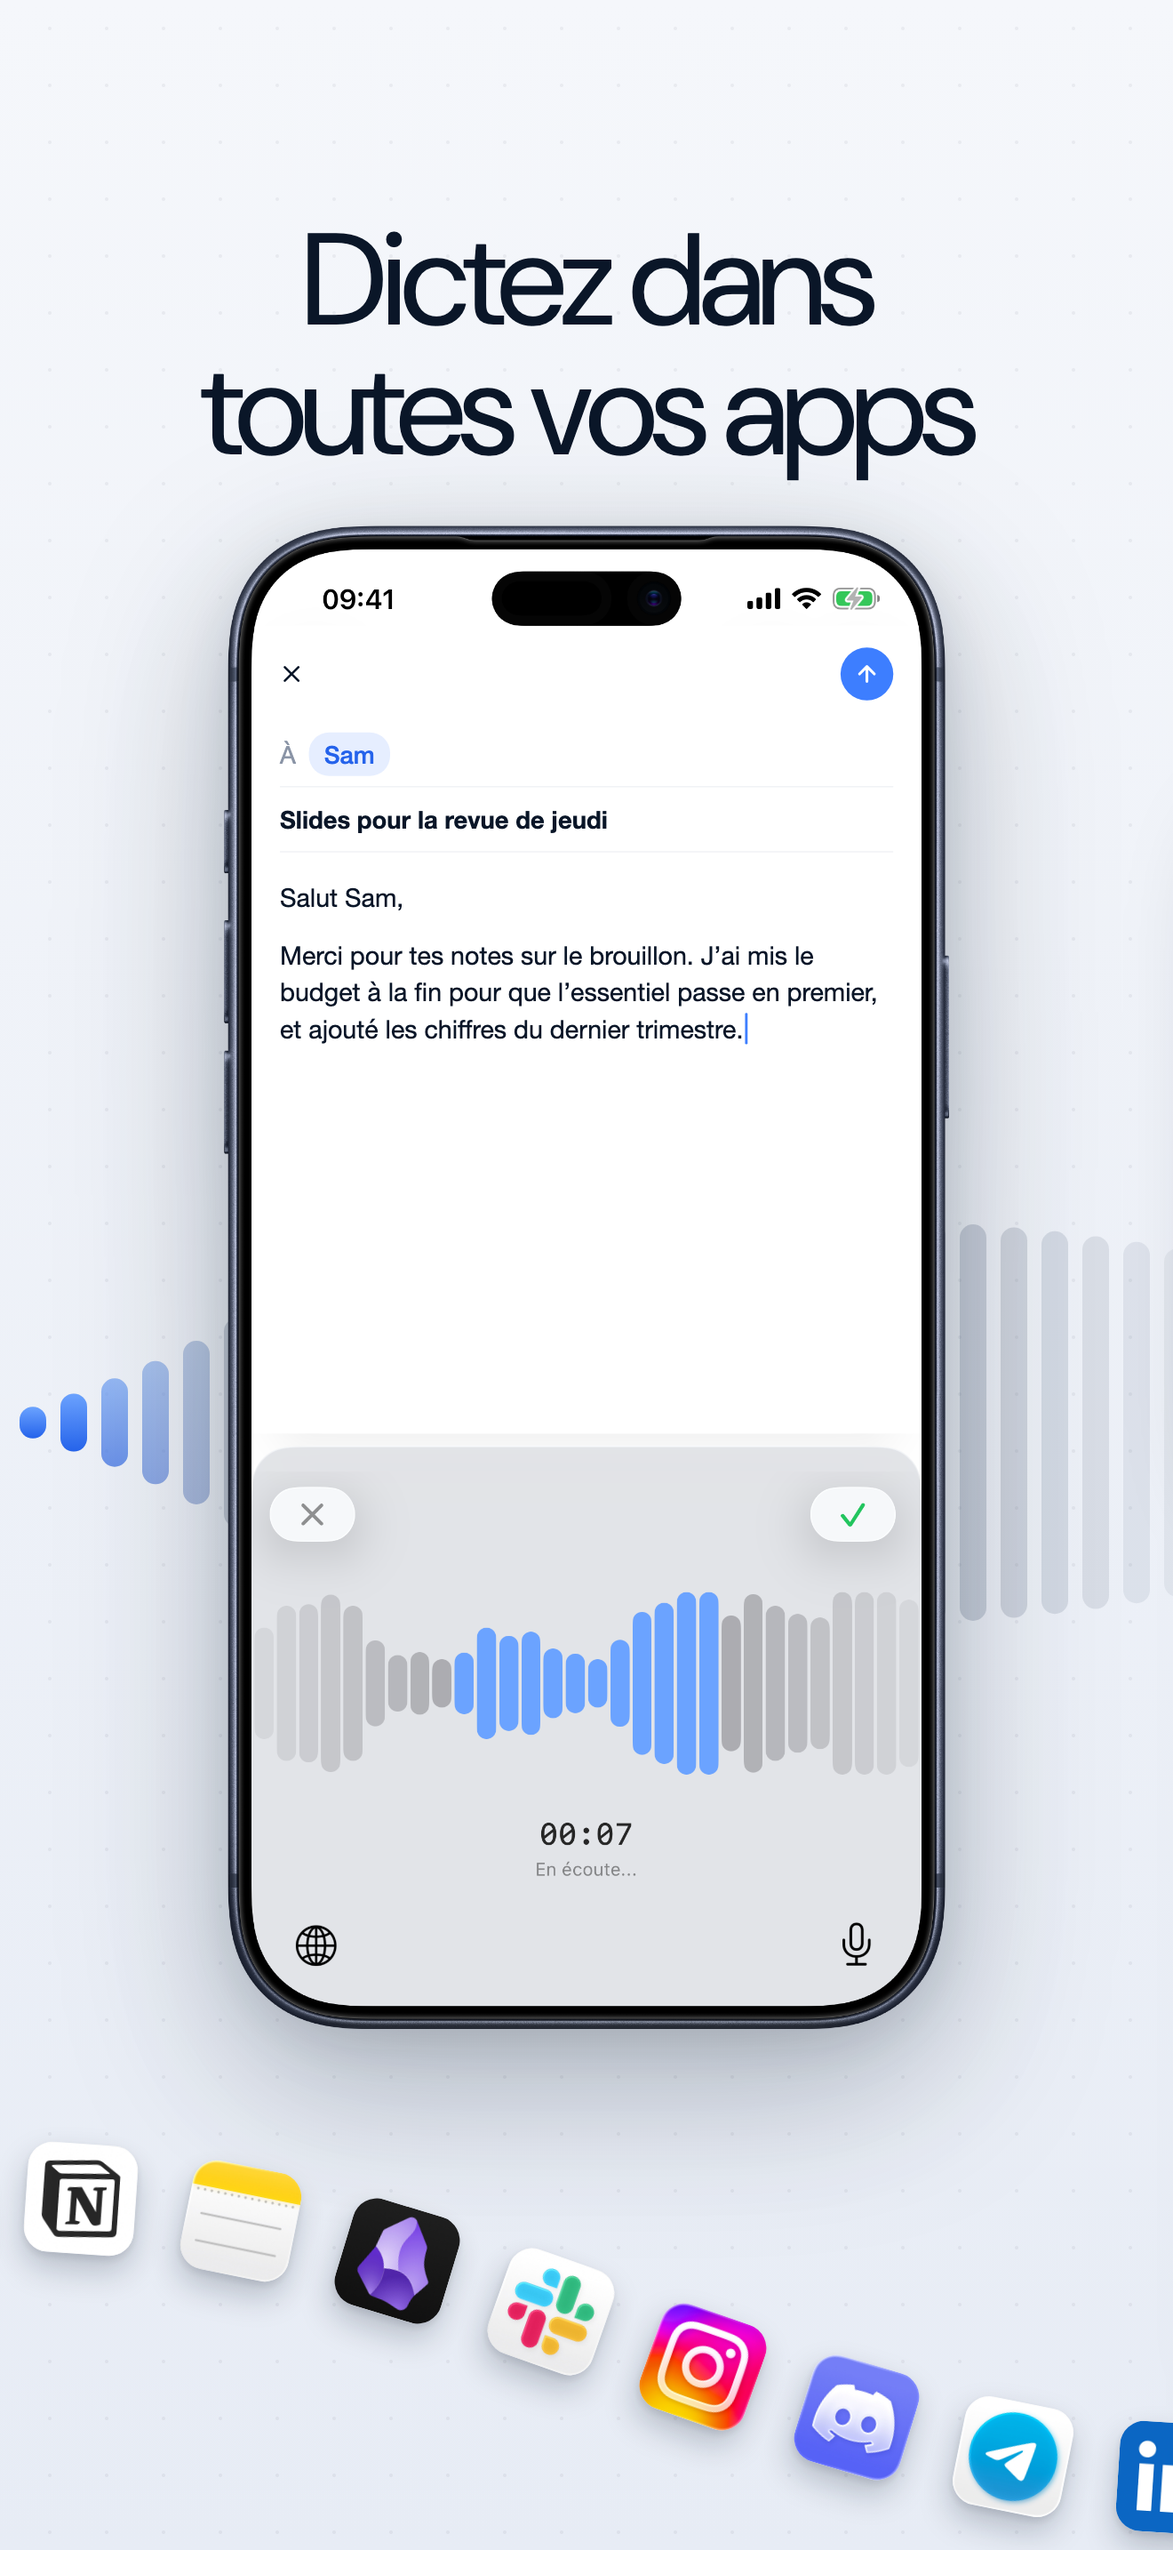
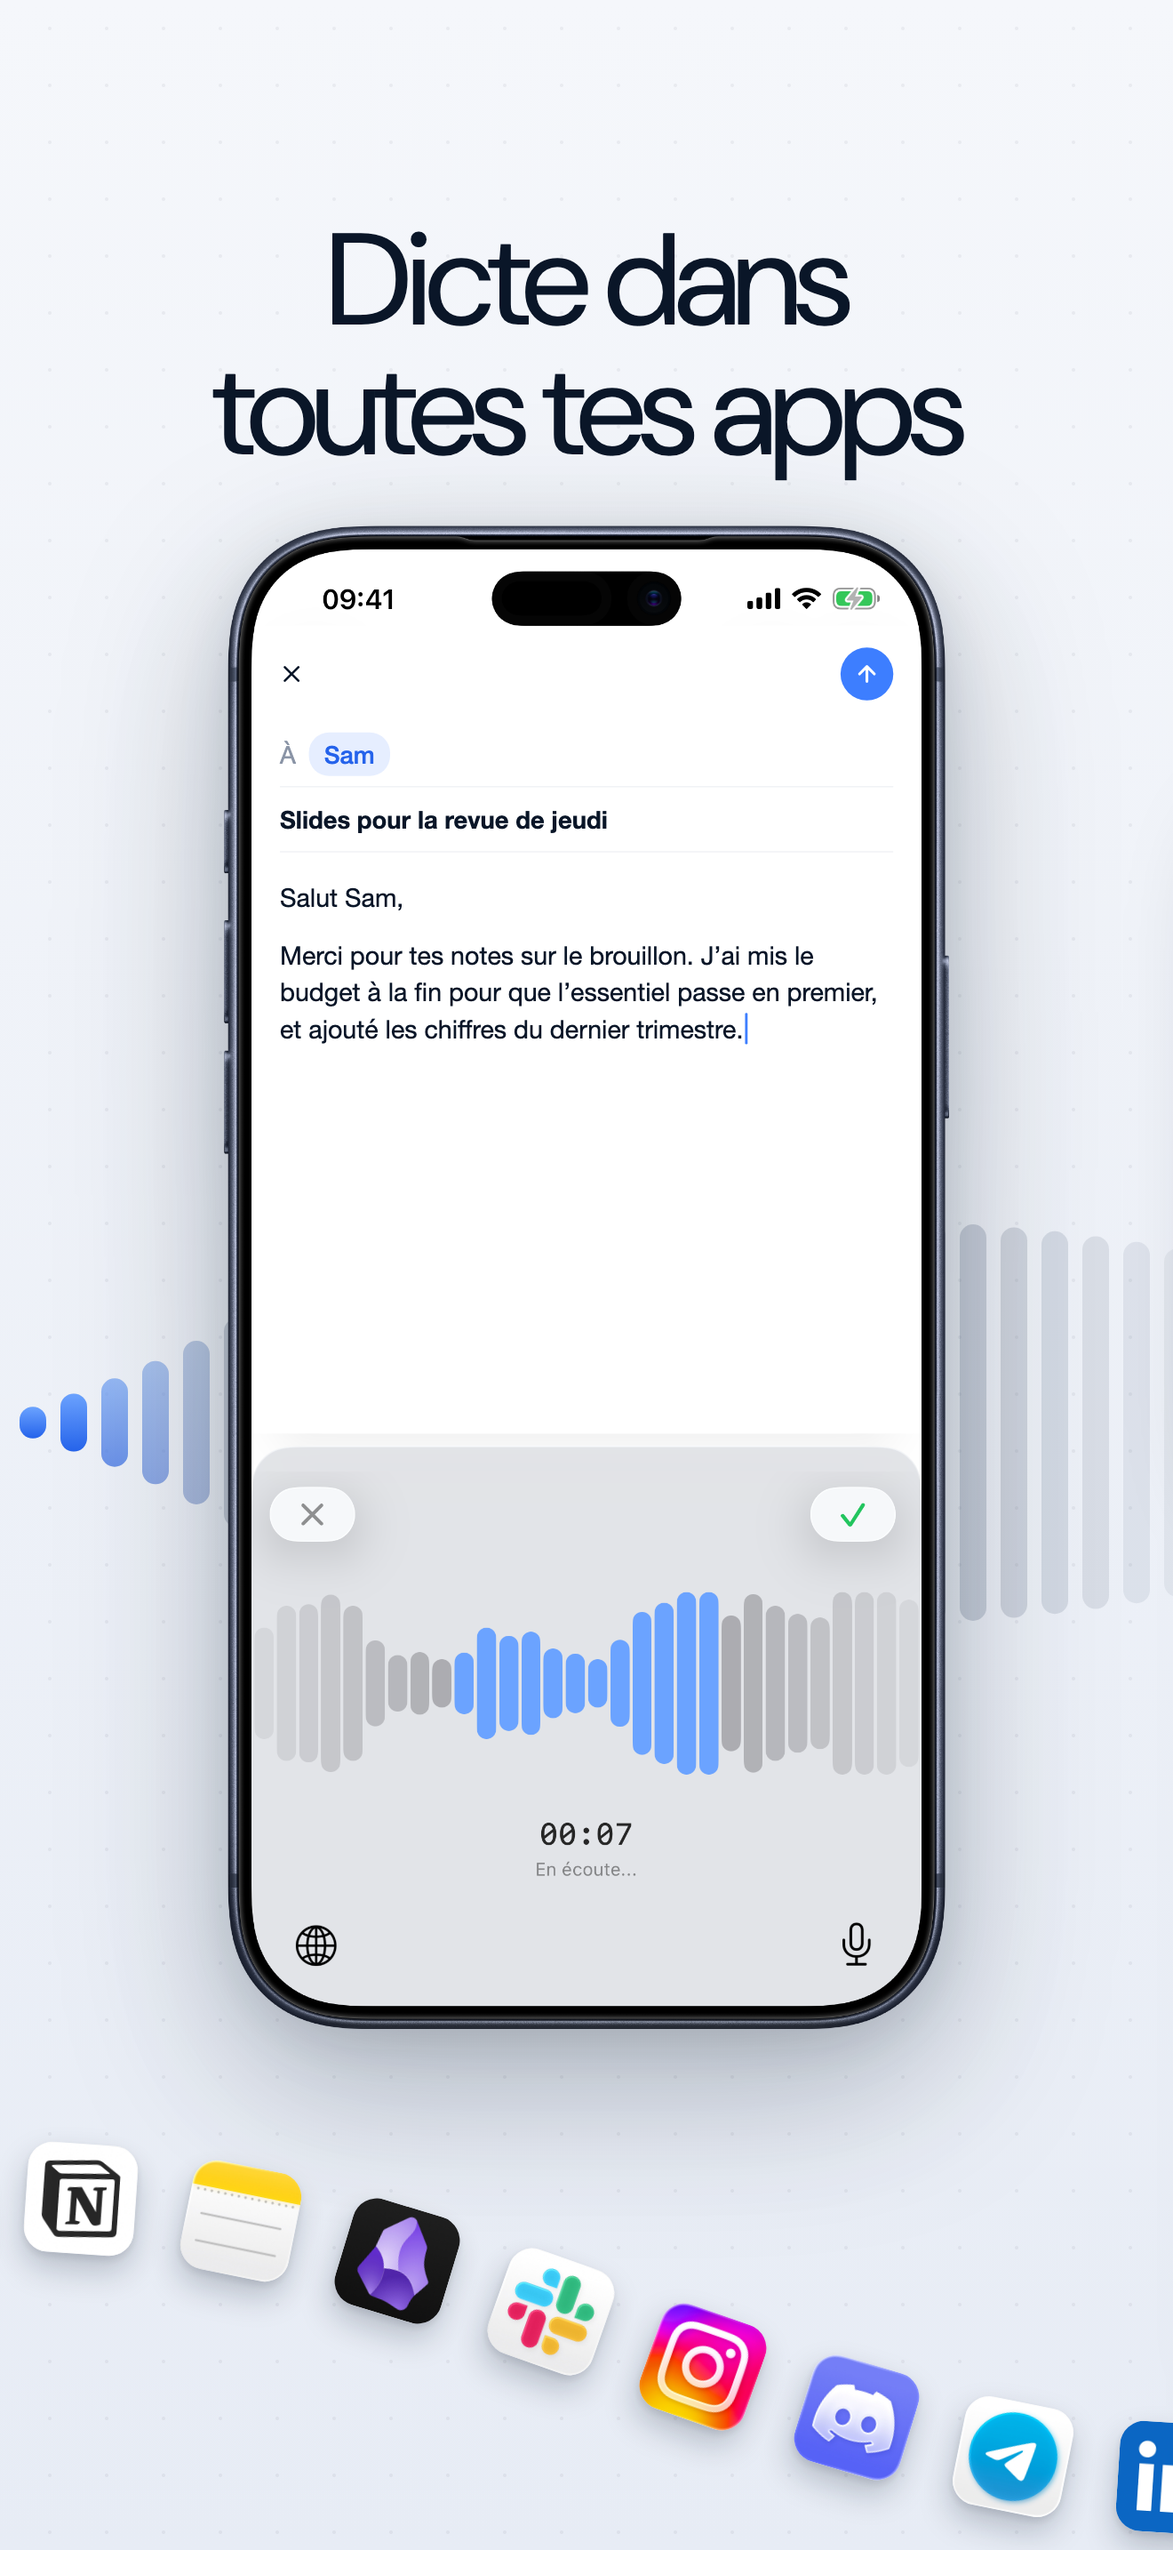
Switch the fr-FR copy to tu and keep the English name (refs #643)
Pierre's decisions of 2026-10-06: Dictus says tu to French users (the app
follows in #662), and the name stays Dictus: AI Voice Keyboard. Headlines,
small lines, subtitle, promotional text and description move to tu; the
keywords now carry clavier, vocal and ia, which the English name no longer
indexes, at 100/100 bytes. Every headline holds on two lines; the set is
re-exported.

Changed region(s): [[0.1553, 0.0931, 0.8386, 0.1862]]

diff --git a/assets/appstore/strings/fr-FR.js b/assets/appstore/strings/fr-FR.js
@@ -6,9 +6,9 @@
  * a non-breaking space ( ) before ? ! : ; and inside « », typographic
  * apostrophes (’), no em dashes.
  *
- * Register: "vous". DictusApp's French strings use it (49 strings against one
- * stray "Tes"); the keyboard's own strings say "tu" ("Choisis un mode"), and
- * that real text shows in the slide 3 capture.
+ * Register: "tu", decided by Pierre on 2026-10-06. The keyboard already says
+ * "tu" ("Choisis un mode", visible in the slide 3 capture); DictusApp still
+ * says "vous" and follows in #662.
  *
  * The email (slide 2) is the user's own message to a colleague, so it says
  * "tu" to Sam; its first words are the hero's lettering ("MERCI POUR TES
@@ -33,11 +33,11 @@ window.DICTUS_STRINGS = {
   heroArt: { "v15-B": "art/v15-B/hero-fr-FR.png" },
   slides: {
     hero: {
-      // "au lieu de taper" held together, so the break falls after "Parlez" (as "Speak instead / of typing")
-      headline: "Parlez au\u00a0lieu\u00a0de\u00a0taper",
+      // "au lieu de taper" held together, so the break falls after "Parle" (as "Speak instead / of typing")
+      headline: "Parle au\u00a0lieu\u00a0de\u00a0taper",
     },
     dictate: {
-      headline: "Dictez dans toutes vos apps",
+      headline: "Dicte dans toutes tes apps",
       emailToLabel: "À",
       emailTo: "Sam",
       emailSubject: "Slides pour la revue de jeudi",
@@ -48,9 +48,9 @@ window.DICTUS_STRINGS = {
     },
     smartModes: {
       footnote: "Les modes intelligents nécessitent Apple Intelligence",
-      beforeLabel: "Vous avez dit",
+      beforeLabel: "Tu as dit",
       translate: {
-        headline: "Traduisez en parlant",
+        headline: "Traduis en parlant",
         // fr-late-e, verbatim.
         before: "Je vais avoir dix minutes de retard, le train est bloqué devant la gare. Ne m’attendez pas et commandez la burrata pour moi.",
         // The fan's own label for the mode (SmartModeDisplayName.swift).
@@ -62,7 +62,7 @@ window.DICTUS_STRINGS = {
       },
     },
     voiceNotes: {
-      headline: "Lisez vos vocaux dans le clavier",
+      headline: "Lis tes vocaux dans le clavier",
       bubbleDuration: "0:24",
       contactName: "Emma",
       chatDay: "Aujourd’hui",
@@ -70,7 +70,7 @@ window.DICTUS_STRINGS = {
       chatPlaceholder: "Message",
     },
     keyboard: {
-      headline: "Un vrai clavier dans votre langue",
+      headline: "Un vrai clavier dans ta langue",
       // iOS names keyboards in the interface language (Réglages › Claviers: "Anglais (R.-U.)").
       labels: {
         fr: "Français · AZERTY",
@@ -79,12 +79,12 @@ window.DICTUS_STRINGS = {
       },
     },
     private: {
-      headline: "Votre voix reste sur votre iPhone",
-      footnote: "Les modèles sont sur votre iPhone. Sans compte, open source.",
+      headline: "Ta voix reste sur ton iPhone",
+      footnote: "Les modèles sont sur ton iPhone. Sans compte, open source.",
     },
     languages: {
       // 40+: see en-GB.js (Whisper good + fair tiers, plus Maltese with Parakeet).
-      headline: "Dictez dans plus de 40 langues",
+      headline: "Dicte dans plus de 40 langues",
       footnote: "Près de 100 avec Whisper. La qualité varie selon la langue.",
       // Unchanged from en-GB: each greeting is in its own language.
       greetings: [

diff --git a/assets/appstore/listing/fr-FR.md b/assets/appstore/listing/fr-FR.md
@@ -2,7 +2,7 @@
 
 Draft for issue #643, the French wave of the approved English set (`export/fr-FR/v15-B/`, slides in the same order). It mirrors `listing/en-GB.md`; the claims and their sources are the same, re-read below. **Nothing here is in App Store Connect.**
 
-Register: **vous**, as DictusApp's French strings (the keyboard's own strings say "tu", see the PR). French typography: a non-breaking space (U+00A0) before `: ; ! ?` and inside « », typographic apostrophes, no em dashes.
+Register: **tu**, decided by Pierre on 2026-10-06 (the keyboard already says "tu"; DictusApp follows in #662). French typography: a non-breaking space (U+00A0) before `: ; ! ?` and inside « », typographic apostrophes, no em dashes.
 
 Limits checked with `python3` (characters; keywords counted in UTF-8 bytes, where an accented letter weighs 2): see the table at the end.
 
@@ -10,81 +10,79 @@ Limits checked with `python3` (characters; keywords counted in UTF-8 bytes, wher
 
 ## Name
 
-- English: `Dictus: AI Voice Keyboard` (25/30)
-- **Proposed: `Dictus : clavier vocal IA`** (25/30, with a non-breaking space before the colon)
-
-Why localise it: the name is the most heavily weighted indexed field, and a French search says « clavier », « vocal », « IA », never "keyboard". It keeps the brand first and says the same thing. If Pierre prefers one name everywhere, keep the English one: nothing else in this file depends on it.
+**`Dictus: AI Voice Keyboard`** (25/30), the English name, kept in French (Pierre, 2026-10-06). Its words (`Dictus`, `AI`, `Voice`, `Keyboard`) are indexed for this locale, so none of them is repeated below; their French equivalents are not in the name, which is why `clavier`, `vocal` and `ia` go into the keywords.
 
 ## Subtitle
 
 **`Dictée privée, messages vocaux`** (30/30)
 
-The English subtitle, `Private dictation, voice notes`, for the same reasons: it holds for every Pro buyer (voice notes need no Apple Intelligence), and it adds indexed words the name lacks. « Messages vocaux » is the app's own name for the feature (`Voice notes` → `Messages vocaux` in `DictusApp/Localizable.xcstrings`), and the phrase French users type. « Hors ligne » moves to the keywords and the description, as "offline" did.
+The English subtitle, `Private dictation, voice notes`, for the same reasons: it holds for every Pro buyer (voice notes need no Apple Intelligence). No word overlaps the English name, so all four are new indexed words. « Messages vocaux » is the app's own name for the feature (`Voice notes` → `Messages vocaux` in `DictusApp/Localizable.xcstrings`), and the phrase French users type. « Hors ligne » moves to the keywords and the description, as "offline" did.
 
 ## Promotional text
 
 For launch week:
 
-> Nouveau dans la 2.0 : Dictus Pro. Traduisez en parlant et lisez les vocaux de vos discussions dans votre clavier. Gratuit 14 jours sur les iPhone avec Apple Intelligence.
+> Nouveau dans la 2.0 : Dictus Pro. Traduis en parlant et lis les vocaux de tes discussions dans ton clavier. Gratuit 14 jours sur les iPhone avec Apple Intelligence.
 
 "Sur les iPhone avec Apple Intelligence" is load-bearing, as in English: the trial never starts on a device that cannot run Smart Modes (#593 decision 2).
 
 ## Keywords
 
-**Proposed:** `transcription,texte,parole,traduction,traduire,audio,hors ligne,whisper,open source,résumé,note`
+**Proposed:** `clavier,vocal,transcription,texte,parole,traduction,audio,hors ligne,whisper,résumé,open source,ia`
 
 - **No ranking data was read.** These are chosen from the product's own vocabulary and the English set's reasoning, not from search volumes: nothing from App Store Connect analytics, Apple Ads or a third-party ASO tool was consulted.
-- Words already in the proposed name or subtitle are not repeated (Apple combines fields): `dictus`, `clavier`, `vocal`, `IA`, `dictée`, `privée`, `messages`, `vocaux`.
-- `texte` + `parole` + `vocal` (name) cover « parole en texte », « texte vocal »; `transcription` covers the generic search; `audio` covers « audio en texte ».
-- `traduction` and `traduire` for Translate (Pro); `résumé` for Summary; `note` combines with `vocaux` and `vocal`.
-- `hors ligne`, `whisper`, `open source`: the English set's technical and privacy terms. « Hors ligne » is the term a French user types, not "offline". `stt` was dropped: it took the list to 101 bytes, and French searches rarely use the English acronym.
-- Not included: `traducteur` (costs 10 bytes; competes with dedicated translators), `micro`, language names (`français`, `anglais`), and no trademarks (guideline 2.3.7).
+- Not repeated, because they are already indexed from the name or the subtitle (Apple combines fields): `dictus`, `ai`, `voice`, `keyboard`, `dictée`, `privée`, `messages`, `vocaux`.
+- `clavier`, `vocal` and `ia`: the French for the English name's `Keyboard`, `Voice` and `AI`. With an English name they would otherwise be indexed nowhere, and « clavier vocal », « clavier IA » are the core French searches. `vocal` is kept beside `vocaux` (subtitle) because Apple does not document whether it matches singular and plural.
+- `texte` + `parole` + `vocal` cover « parole en texte », « texte vocal »; `transcription` the generic search; `audio` « audio en texte ».
+- `traduction` for Translate (Pro); `résumé` for Summary.
+- `hors ligne`, `whisper`, `open source`: the English set's technical and privacy terms. « Hors ligne » is the term a French user types, not "offline".
+- Dropped to make room for `clavier`, `vocal`, `ia`: `traduire` (assumed covered by `traduction`), `note`, `stt`. Not included: `traducteur`, `micro`, language names (`français`, `anglais`), and no trademarks (guideline 2.3.7).
 
 ## Description
 
 Follows the seven V15-B slides, in order and with their headlines.
 
 ```
-Parlez au lieu de taper. Dictus est un clavier qui écrit ce que vous dites : touchez le micro, parlez, et vos mots s’affichent dans n’importe quelle app. La reconnaissance vocale tourne sur votre iPhone, même sans connexion.
+Parle au lieu de taper. Dictus est un clavier qui écrit ce que tu dis : touche le micro, parle, et tes mots s’affichent dans n’importe quelle app. La reconnaissance vocale tourne sur ton iPhone, même sans connexion.
 
-DICTEZ DANS TOUTES VOS APPS
+DICTE DANS TOUTES TES APPS
 
-Messages, e-mails, notes, rappels : partout où vous pouvez écrire, Dictus est à portée de doigt. Parlez naturellement, et le texte arrive là où se trouve votre curseur.
+Messages, e-mails, notes, rappels : partout où tu peux écrire, Dictus est à portée de doigt. Parle naturellement, et le texte arrive là où se trouve ton curseur.
 
-TRADUISEZ EN PARLANT (PRO)
+TRADUIS EN PARLANT (PRO)
 
-Les modes intelligents transforment votre dictée en texte prêt à envoyer, avant même qu’il soit tapé. Maintenez le micro, choisissez un mode, et parlez :
+Les modes intelligents transforment ta dictée en texte prêt à envoyer, avant même qu’il soit tapé. Maintiens le micro, choisis un mode, et parle :
 - Traduction : vers le français, l’anglais, l’allemand ou l’espagnol
-- Message : le message court que vous auriez tapé
-- Liste : vos idées sous forme de puces
+- Message : le message court que tu aurais tapé
+- Liste : tes idées sous forme de puces
 - Structuré : une longue dictée en paragraphes clairs
-- Résumé : l’essentiel de ce que vous avez dit
+- Résumé : l’essentiel de ce que tu as dit
 
-Les modes intelligents tournent sur votre iPhone avec Apple Intelligence (iPhone 15 Pro ou plus récent, iOS 26 ou plus récent). Vos mots ne partent vers aucun serveur.
+Les modes intelligents tournent sur ton iPhone avec Apple Intelligence (iPhone 15 Pro ou plus récent, iOS 26 ou plus récent). Tes mots ne partent vers aucun serveur.
 
-LISEZ VOS VOCAUX DANS LE CLAVIER (PRO)
+LIS TES VOCAUX DANS LE CLAVIER (PRO)
 
-Un message vocal que vous ne pouvez pas écouter tout de suite ? Partagez-le vers Dictus depuis votre app de messagerie. Il est transcrit sur votre iPhone, et la transcription vous attend dans le clavier quand vous revenez dans la conversation. Lisez-la, puis insérez-la d’un geste si vous voulez la citer.
+Un message vocal que tu ne peux pas écouter tout de suite ? Partage-le vers Dictus depuis ton app de messagerie. Il est transcrit sur ton iPhone, et la transcription t’attend dans le clavier quand tu reviens dans la conversation. Lis-la, puis insère-la d’un geste si tu veux la citer.
 
-UN VRAI CLAVIER DANS VOTRE LANGUE
+UN VRAI CLAVIER DANS TA LANGUE
 
-Dictus est un clavier complet, pas seulement un bouton micro. Dispositions AZERTY, QWERTY et QWERTZ, avec correction automatique et suggestions en français, en anglais, en allemand et en espagnol. Tapez quand vous voulez, parlez quand vous préférez.
+Dictus est un clavier complet, pas seulement un bouton micro. Dispositions AZERTY, QWERTY et QWERTZ, avec correction automatique et suggestions en français, en anglais, en allemand et en espagnol. Tape quand tu veux, parle quand tu préfères.
 
-VOTRE VOIX RESTE SUR VOTRE IPHONE
+TA VOIX RESTE SUR TON IPHONE
 
-La reconnaissance vocale se fait sur l’appareil. Pas de compte, pas de pistage, pas de statistiques d’usage. Dictez en avion, dans le métro, partout. Les modèles sont sur votre iPhone : téléchargez-en un une fois, puis utilisez-le hors ligne, du plus compact et rapide au plus précis.
+La reconnaissance vocale se fait sur l’appareil. Pas de compte, pas de pistage, pas de statistiques d’usage. Dicte en avion, dans le métro, partout. Les modèles sont sur ton iPhone : télécharges-en un une fois, puis utilise-le hors ligne, du plus compact et rapide au plus précis.
 
 Dictus est open source (licence MIT). Chacun peut lire le code et vérifier ces engagements de confidentialité : github.com/getdictus/dictus-ios
 
-DICTEZ DANS PLUS DE 40 LANGUES
+DICTE DANS PLUS DE 40 LANGUES
 
-La dictée fonctionne dans plus de 40 langues avec une qualité bonne ou correcte, et dans près de 100 avec les modèles Whisper, où la qualité varie selon la langue. Parakeet, le modèle par défaut, transcrit 25 langues européennes et reconnaît celle que vous parlez. Chaque modèle indique les langues qu’il gère bien avant que vous le téléchargiez.
+La dictée fonctionne dans plus de 40 langues avec une qualité bonne ou correcte, et dans près de 100 avec les modèles Whisper, où la qualité varie selon la langue. Parakeet, le modèle par défaut, transcrit 25 langues européennes et reconnaît celle que tu parles. Chaque modèle indique les langues qu’il gère bien avant que tu le télécharges.
 
 DICTUS PRO
 
-Pro ajoute les modes intelligents, les messages vocaux dans le clavier, l’historique de vos dictées et votre propre vocabulaire pour les noms et les termes techniques.
+Pro ajoute les modes intelligents, les messages vocaux dans le clavier, l’historique de tes dictées et ton propre vocabulaire pour les noms et les termes techniques.
 
-Essayez Pro gratuitement pendant 14 jours. Il n’y a rien à souscrire et rien ne se renouvelle : à la fin des 14 jours, Dictus repasse en version gratuite et vous demande si vous voulez garder Pro. Votre historique et votre vocabulaire sont conservés. L’essai est proposé sur les iPhone capables de faire tourner les modes intelligents. La dictée et le clavier restent gratuits.
+Essaie Pro gratuitement pendant 14 jours. Il n’y a rien à souscrire et rien ne se renouvelle : à la fin des 14 jours, Dictus repasse en version gratuite et te demande si tu veux garder Pro. Ton historique et ton vocabulaire sont conservés. L’essai est proposé sur les iPhone capables de faire tourner les modes intelligents. La dictée et le clavier restent gratuits.
 
 Dictus ne collecte aucune donnée. Politique de confidentialité : getdictus.com/privacy
 ```
@@ -112,6 +110,6 @@ Measured with `python3` on this file's fenced and quoted texts (`len()` for char
 |---|---|---|
 | Name | 30 | 25 |
 | Subtitle | 30 | 30 |
-| Promotional text | 170 | 170 |
-| Keywords (bytes) | 100 | 97 |
-| Description | 4000 | 3162 |
+| Promotional text | 170 | 164 |
+| Keywords (bytes) | 100 | 100 |
+| Description | 4000 | 3066 |
